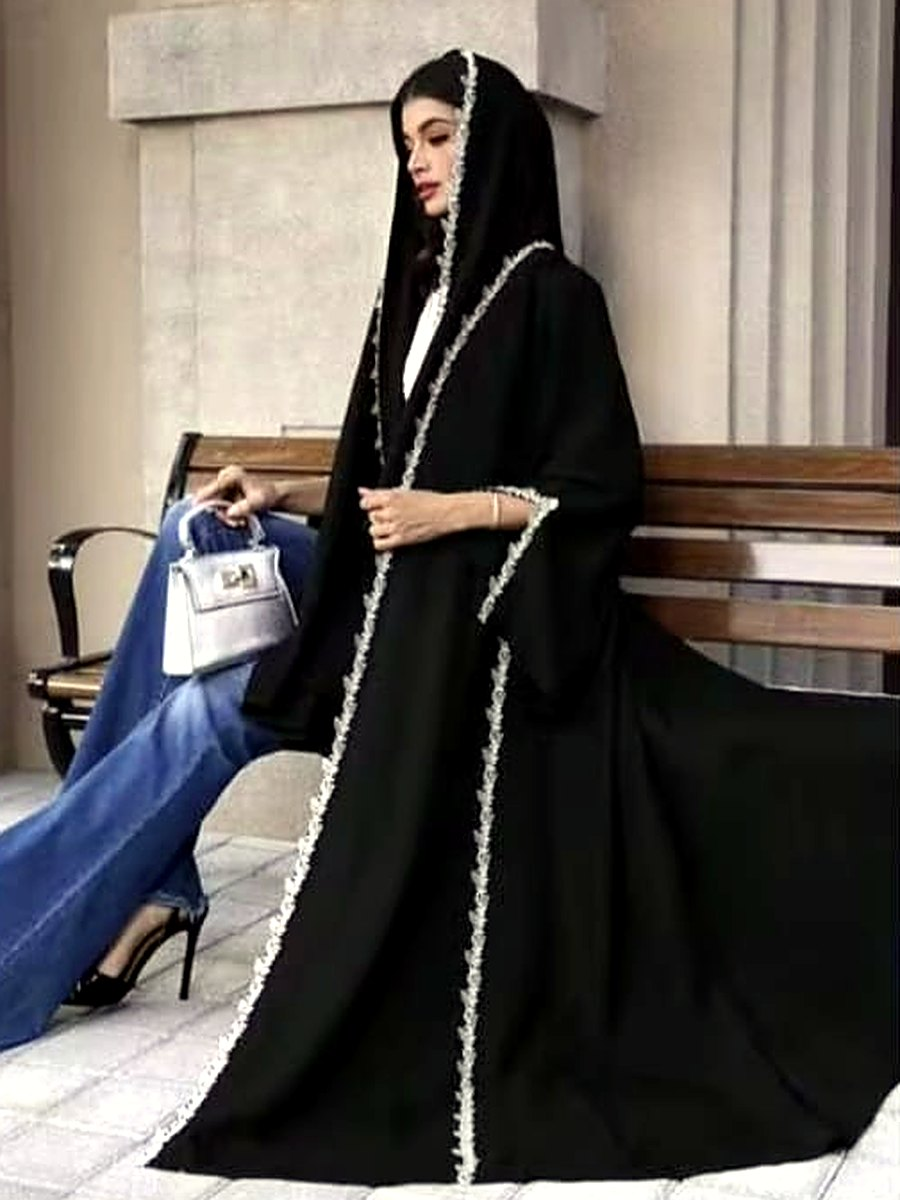
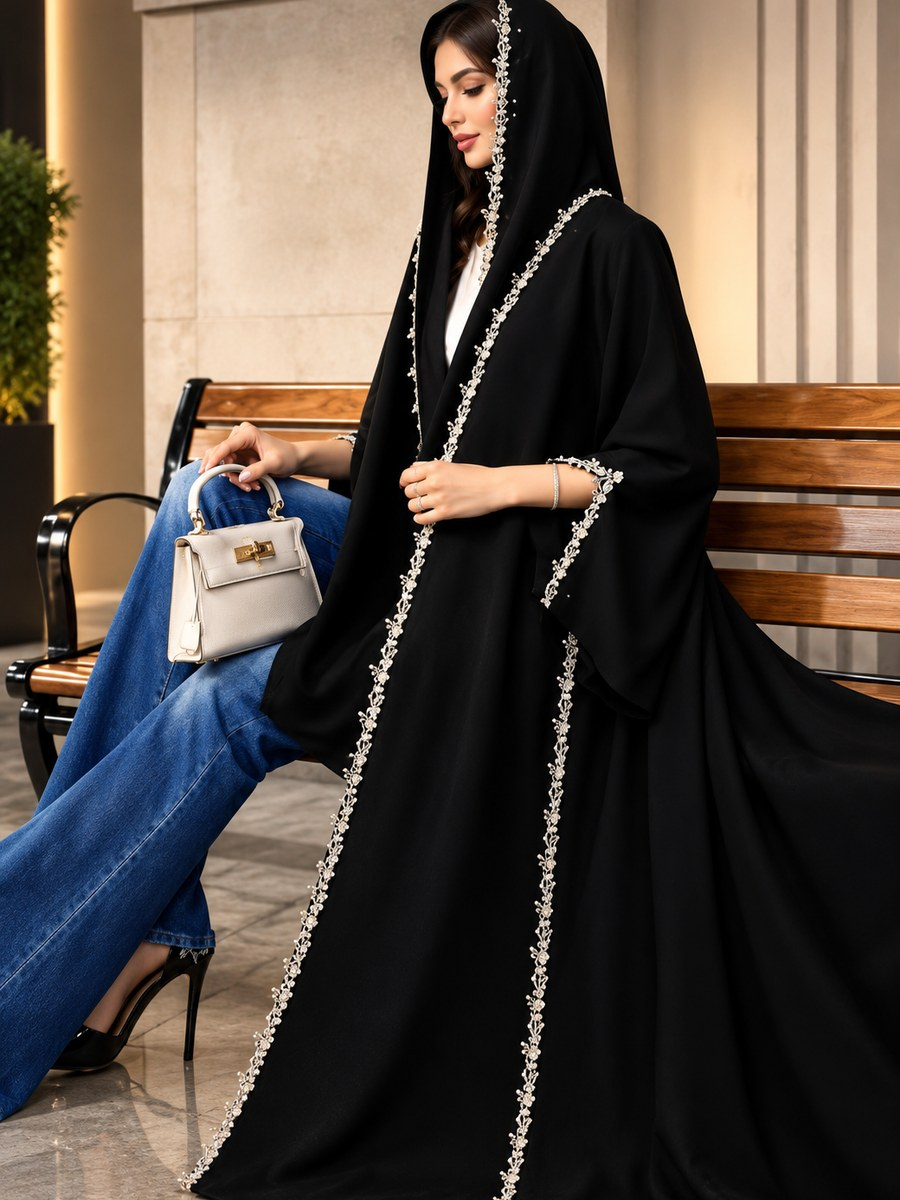
Use high-resolution campaign photo for the homepage hero
- New 1040x1512 photo of the pearl-trim hooded abaya as the hero image;
  the same photo replaces that product's low-resolution main image
- Larger hero on mobile (78svh, lighter overlays) and wider image column
  on desktop so the abaya is clearly visible

Claude-Session: https://claude.ai/code/session_01VwjRMZ7xtnMf4c4xULvwCQ

diff --git a/src/components/home/Hero.tsx b/src/components/home/Hero.tsx
@@ -11,22 +11,22 @@ export function Hero() {
     <section aria-labelledby="hero-title" className="relative -mt-[65px] overflow-hidden bg-ink text-ivory md:-mt-[77px]">
       <div className="relative mx-auto flex max-w-7xl md:min-h-[min(100svh,940px)] flex-col md:grid md:grid-cols-12 md:items-center md:px-8">
         {/* Visual */}
-        <div className="relative h-[64svh] min-h-[440px] w-full overflow-hidden md:order-2 md:col-span-5 md:col-start-8 md:my-24 md:h-[min(78svh,760px)] md:rounded-2xl md:shadow-[0_40px_80px_-40px_rgb(0_0_0/0.8)]">
+        <div className="relative h-[78svh] min-h-[520px] w-full overflow-hidden md:order-2 md:col-span-6 md:col-start-7 md:my-16 md:h-[min(88svh,860px)] md:rounded-2xl md:shadow-[0_40px_80px_-40px_rgb(0_0_0/0.8)]">
           <div className="absolute inset-0 animate-slow-zoom">
             {hero.image ? (
-              <Image src={hero.image} alt={hero.imageAlt} fill priority quality={85} sizes="(min-width: 768px) 42vw, 100vw" className="object-cover object-[50%_30%]" />
+              <Image src={hero.image} alt={hero.imageAlt} fill priority quality={85} sizes="(min-width: 768px) 50vw, 100vw" className="object-cover object-[50%_18%]" />
             ) : (
               <ProductArt garment="abaya" color="#121110" trim scene="night" className="size-full" />
             )}
           </div>
           {/* Keeps the header legible over bright photos (mobile) */}
-          <div className="absolute inset-x-0 top-0 h-36 bg-gradient-to-b from-ink/75 to-transparent md:hidden" />
-          <div className="absolute inset-x-0 bottom-0 h-3/5 bg-gradient-to-t from-ink via-ink/55 to-transparent md:hidden" />
+          <div className="absolute inset-x-0 top-0 h-32 bg-gradient-to-b from-ink/70 to-transparent md:hidden" />
+          <div className="absolute inset-x-0 bottom-0 h-[38%] bg-gradient-to-t from-ink via-ink/60 to-transparent md:hidden" />
           <div className="pointer-events-none absolute inset-4 hidden rounded-xl border border-champagne-soft/30 md:block" aria-hidden />
         </div>
 
         {/* Copy */}
-        <div className="relative z-10 -mt-28 px-6 pb-14 md:order-1 md:col-span-6 md:mt-0 md:px-0 md:pb-0 md:pe-6">
+        <div className="relative z-10 -mt-28 px-6 pb-14 md:order-1 md:col-span-6 md:mt-0 md:px-0 md:pb-0 md:pe-4">
           <p className="eyebrow animate-fade-up text-champagne-soft! [animation-delay:150ms]">مجموعة الموسم الجديد</p>
           <h1
             id="hero-title"

diff --git a/src/config/site.ts b/src/config/site.ts
@@ -57,7 +57,7 @@ export const siteConfig = {
    * When empty, the hero renders the brand's illustrated composition.
    */
   hero: {
-    image: "/products/abaya-black-pearl-trim-hooded-1.jpg" as string,
+    image: "/hero-pearl-abaya.jpg" as string,
     imageAlt: "عباية سوداء بغطاء رأس وحواف لؤلؤية",
   },
 
